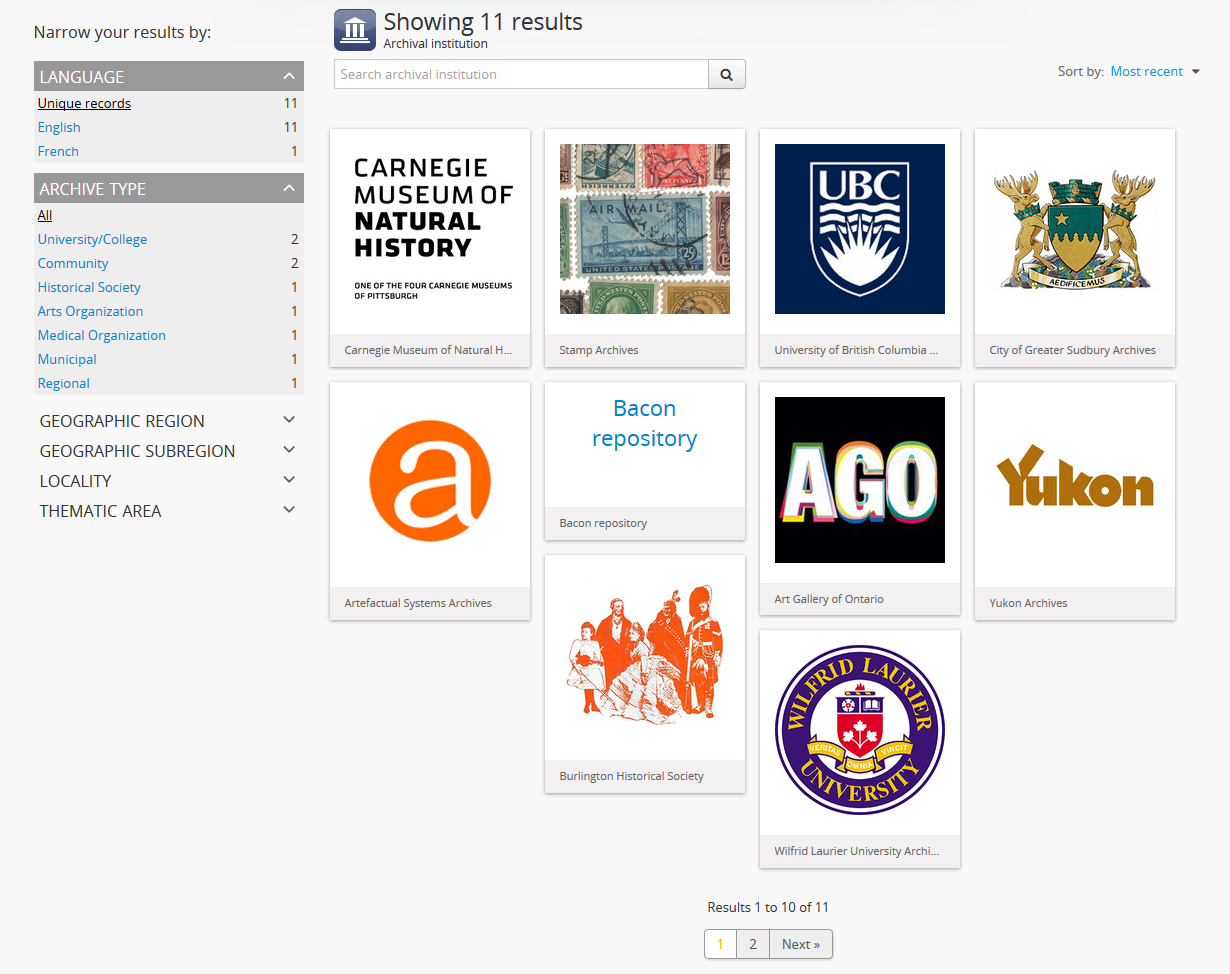
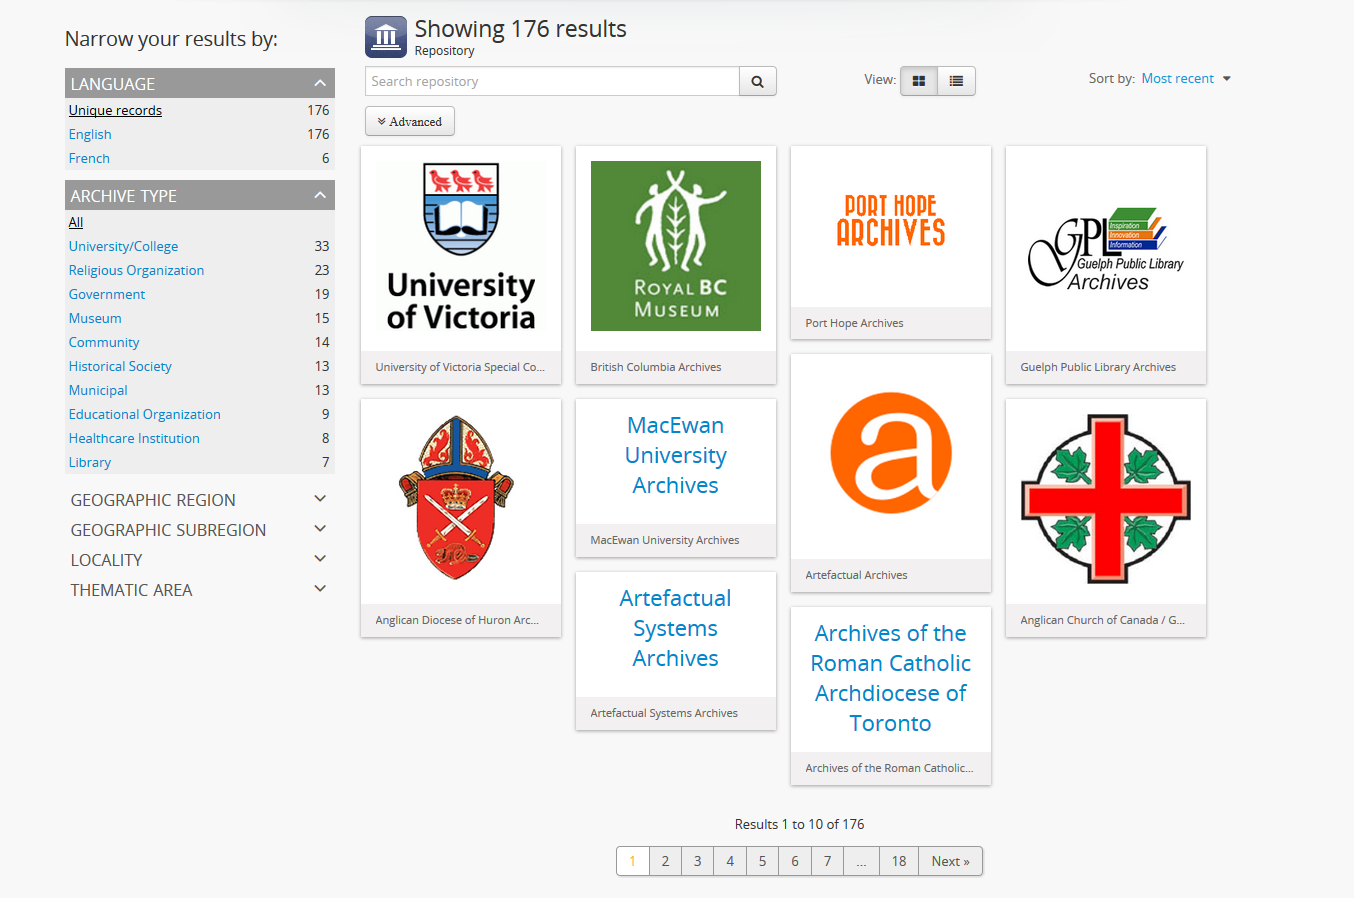
start revising repo search and browse, refs #8673 #8674

diff --git a/user-manual/access-content/search-atom.rst b/user-manual/access-content/search-atom.rst
@@ -844,31 +844,40 @@ For more information on working with accession records in AtoM, see:
 
 A dedicated search box for :term:`archival institutions <archival institution>`
 has been provided on the archival institution
-:ref:`browse page <page-type-browse>`. In AtoM 2.0.0, this search box will
-search the following fields of an archival institution record:
+:ref:`browse page <page-type-browse>`. All fields are indexed, but as of AtoM
+2.3 and earlier, no weighting has been added to specific fields.
 
-* **Authorized form of name** in the Identity area
-* **All fields** in the Description area, Access area, and Service area
-  (**except** Finding aids, guides, and publications in the Description Area)
-* **Dates of creation, revision, and deletion**, **Sources**, and **Maintenance
-  notes** in the Control area
+The archival institution browse page has 2 different views - a "card" based
+view, and a table view. Users can switch quickly between these two views via
+the view toggle button located next to the archival institution
+:term:`dedicated search box`:
 
-.. NOTE::
+.. image:: images/view-toggle-repository.*
+   :align: center
+   :width: 80%
+   :alt: An image of the view toggle button on the repository browse page
 
-   Other name fields in the Identity area (Parallel forms of name; Other forms
-   of name) and the Finding aids field in the Description area have **not**
-   been indexed in AtoM 2.0.0. We hope to add this in a future release.
+For more information on navigating the archival institution browse page, see:
+:ref:`Browse archival institutions <browse-institutions>`.
 
-For more information on working with :term:`archival institutions <archival
-institution>` in AtoM, see: :ref:`archival-institutions`. For information on
-working with particular fields in the archival institution record edit
-template, see: :ref:`isdiah-template`.
+For more information on working with :term:`archival institution` records in
+AtoM, see: :ref:`archival-institutions`. For information on working with
+particular fields in the archival institution record edit template, see:
+:ref:`isdiah-template`.
 
 **To search for archival institutions in AtoM:**
 
 1. Using the :term:`browse menu` (available as a :term:`drop-down menu` next
    to the :term:`search box` in the AtoM :term:`header bar` at the top of the
-   page), navigate to **Browse > Archival institutions**
+   page), navigate to **Browse > Archival institutions**. The way the page
+   will appear may depend on the default view set by an :term:`administrator`
+   - there is a table view, and a card view, and users can toggle between the
+   two:
+
+.. image:: images/repo-views.*
+   :align: center
+   :width: 70%
+   :alt: An comparison of the card and table views of the repository browse page
 
 .. TIP::
 
@@ -879,11 +888,6 @@ template, see: :ref:`isdiah-template`.
    change the default labels via **Admin > Settings > User interface label**,
    and the default menu labels can be changed via **Admin > Menus**. See the
    :ref:`administer` section for more details.
-
-.. image:: images/repository-browse.*
-   :align: center
-   :width: 70%
-   :alt: An image of the archival institution browse page
 
 2. Place your cursor in the :term:`dedicated search box` at the top of
    the :term:`archival institution` browse page. Type a search term and press
@@ -900,10 +904,8 @@ template, see: :ref:`isdiah-template`.
 
 .. NOTE::
 
-   See :ref:`above <dedicated-search-institutions>` for a list of
-   :term:`fields <field>` that AtoM will search in an archival institution
-   record. In the  current release, results have not been weighted to favor
-   title matches. If you see results without matches in the title (i.e. the
+   In the current release, results have not been weighted to favor title
+   matches. If you see results without matches in the title (i.e. the
    authorized form of name), it means the search term(s) appears somewhere in
    the body of the record.
 

diff --git a/user-manual/access-content/browse.rst b/user-manual/access-content/browse.rst
@@ -35,6 +35,9 @@ Browse
    :height: 24
    :width: 24
 
+.. |gears| image:: images/gears.png
+   :height: 18
+
 The Browse menus in AtoM allow users to browse complete lists of
 :term:`archival descriptions <archival description>`, as well as digital objects,
 :term:`authority records <authority record>` (for people and organizations),
@@ -233,7 +236,34 @@ Click the Browse menu, then click Archival Institutions.
 .. image:: images/browse-institutions.*
    :align: center
    :width: 80%
-   :alt: View of browsing archival institutions
+   :alt: View of browsing archival institutions, card view
+
+There are 2 ways of viewing the browse page for institutions - the "card"
+view, pictured above, or the "table" view:
+
+.. image:: images/browse-institutions-table.*
+   :align: center
+   :width: 80%
+   :alt: View of browsing archival institutions, table view
+
+In the table view, the columns that appear as blue hyperlinks (the Name,
+Region, and Locality columnns) can be clicked to sort the results
+alphabetically by that column. Click the column header once to sort in
+descending (A-Z) order; click again to sort in ascending (Z-A) order.
+
+Users can flip between the table and card views while browsing, using the
+view toggle button that appears to the right of the archival institution search box:
+
+.. image:: images/view-toggle-repository.*
+   :align: center
+   :width: 80%
+   :alt: An image of the view toggle button on the repository browse page
+
+.. TIP::
+
+   An :term:`administrator` can set the default view for the archival
+   institution browse page, in |gears| **Admin > Settings > Global**. For more
+   information, see: :ref:`default-repo-view`.
 
 If the institution has uploaded a logo as part of their institution record,
 the logo will be displayed in the browse display (see:
@@ -248,7 +278,7 @@ users, which can be changed by the user to Most recent or identifier via the
 
    :term:`Administrators <administrator>` can change the default sort order
    on search/browse pages for both public and authenticated (i.e. logged in)
-   users, in **Admin > Settings > Global**. For more information, see:
+   users, in |gears| **Admin > Settings > Global**. For more information, see:
    :ref:`sort-browser-users` and :ref:`sort-browser-anonymous`.
 
 Users can narrow the results list using the available
@@ -258,8 +288,9 @@ more information on using the facet filters in AtoM, see:
 :ref:`Using facet filters in AtoM <using-facet-filters>`.
 
 The archival institution browse page also includes a
-:term:`dedicated search box`. For more information on searching for archival
-institutions in AtoM, see: :ref:`Archival institution search
+:term:`dedicated search box`, and further filters available under the
+"Advanced" button that appears below the search box. For more information on
+searching for archival institutions in AtoM, see: :ref:`Archival institution search
 <dedicated-search-institutions>`. For general information on working with
 :term:`archival institution` records, see: :ref:`archival-institutions`.
 
